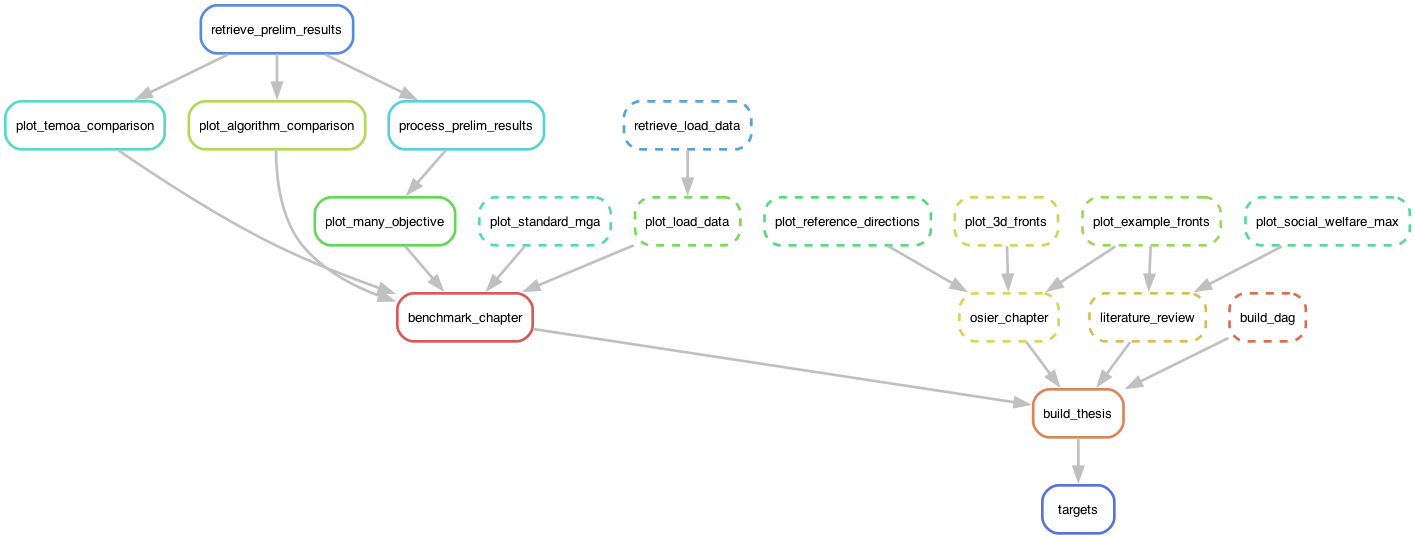
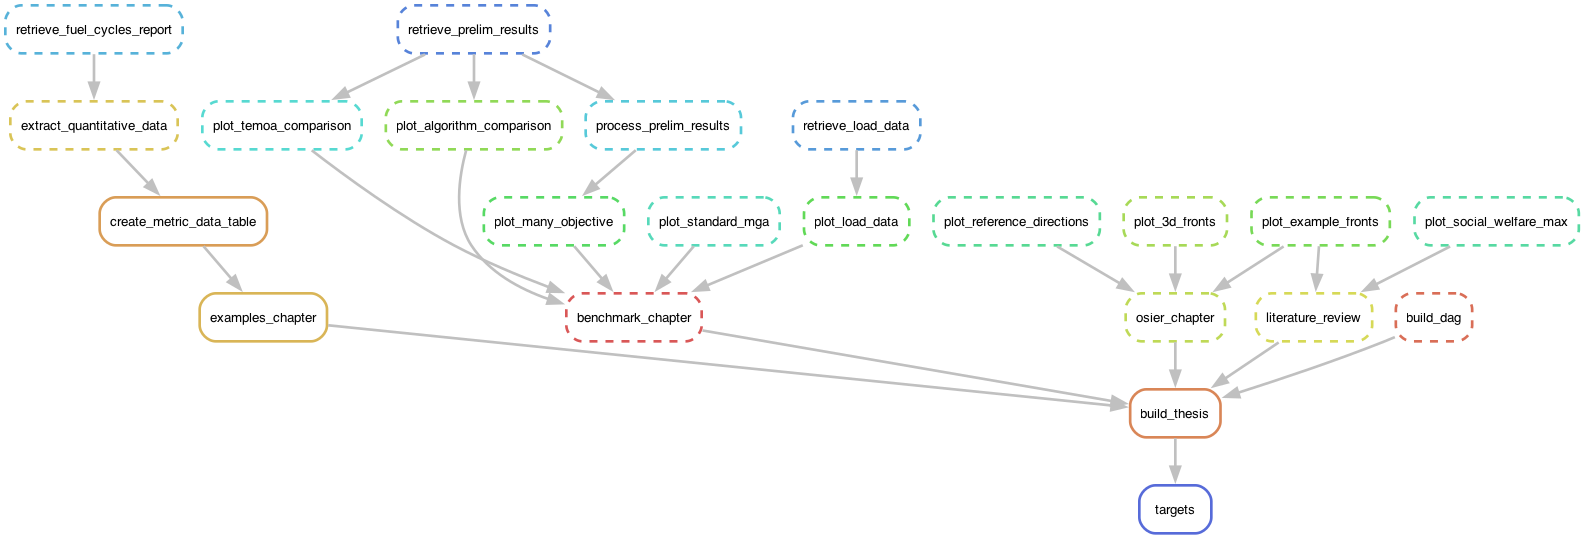
adds table of SET tool metric data

Changed region(s): [[0.0, 0.0, 1.0, 0.8312], [0.7152, 0.8609, 0.7774, 1.0], [0.342, 0.1187, 0.3731, 0.1484]]

diff --git a/docs/tables/metric_data_manual.tex b/docs/tables/metric_data_manual.tex
@@ -1,0 +1,48 @@
+\begin{tabular}{lrrrrrrrrrrr}
+    \toprule
+    EG & Mass \acs{snf}+\acs{hlw} & Activity at 100 years & Activity at 100k years & Mass \acs{du}+\acs{ru}+\acs{rth}& Volume \acs{llw} & Land use & Water use & \acs{co2eq} emissions & Worker dose & Mass natural uranium & Mass natural thorium \\
+    & [t/GWe-yr] & [Ci/GWe-yr] & [Ci/GWe-yr] & [t/GWe-yr] & [m3] & [km2/GWe-yr] & [ML/GWe-yr] & [kt\acs{co2eq}/GWe-yr] & [person-mSv/GWe-yr] & [t/GWe-yr] & [t/GWe-yr] \\
+    \midrule
+    EG01 & 21.92 & 1340000.00 & 1650.00 & 166.67 & 398.84 & 0.17 & 23891.00 & 44.10 & 1.10 & 188.63 & 0.00 \\
+    EG02 & 9.22 & 1430000.00 & 2050.00 & 296.48 & 414.23 & 0.21 & 23994.00 & 54.90 & 1.28 & 305.73 & 0.00 \\
+    EG03 & 147.57 & 1340000.00 & 2460.00 & 0.00 & 373.00 & 0.25 & 23924.00 & 87.10 & 2.41 & 147.87 & 0.00 \\
+    EG04 & 3.99 & 805000.00 & 1640.00 & 0.00 & 278.60 & 0.08 & 23706.00 & 13.50 & 1.22 & 4.00 & 0.00 \\
+    EG05 & 11.41 & 1390000.00 & 7380.00 & 282.41 & 412.58 & 0.21 & 23981.00 & 53.90 & 1.27 & 289.20 & 4.65 \\
+    EG06 & 9.86 & 1770000.00 & 13000.00 & 0.00 & 835.32 & 0.12 & 31308.00 & 59.10 & 2.81 & 0.00 & 9.88 \\
+    EG07 & 31.97 & 1780000.00 & 9480.00 & 0.00 & 342.20 & 0.17 & 37831.00 & 45.70 & 4.54 & 32.03 & 0.00 \\
+    EG08 & 1.62 & 909000.00 & 1690.00 & 0.00 & 826.47 & 0.11 & 33640.00 & 25.40 & 2.93 & 0.00 & 1.62 \\
+    EG09 & 2.24 & 882000.00 & 942.00 & 0.00 & 359.00 & 0.08 & 23709.00 & 17.50 & 1.21 & 2.25 & 0.00 \\
+    EG10 & 10.84 & 1420000.00 & 10800.00 & 0.00 & 2796.69 & 0.10 & 23767.00 & 79.50 & 0.61 & 0.00 & 10.86 \\
+    EG11 & 4.54 & 1020000.00 & 9140.00 & 104.29 & 401.01 & 0.13 & 23810.00 & 31.80 & 1.40 & 106.80 & 2.05 \\
+    EG12 & 7.27 & 1400000.00 & 1420.00 & 104.96 & 1646.12 & 0.14 & 23912.00 & 113.30 & 2.02 & 112.46 & 0.00 \\
+    EG13 & 3.42 & 1330000.00 & 1320.00 & 167.69 & 621.88 & 0.16 & 23897.00 & 52.70 & 1.12 & 171.16 & 0.00 \\
+    EG14 & 8.34 & 1140000.00 & 1240.00 & 0.00 & 618.99 & 0.09 & 23728.00 & 28.50 & 1.18 & 8.38 & 0.00 \\
+    EG15 & 2.11 & 1240000.00 & 1140.00 & 169.81 & 611.53 & 0.15 & 23881.00 & 48.80 & 1.12 & 171.96 & 0.00 \\
+    EG16 & 1.52 & 1260000.00 & 1030.00 & 175.99 & 630.76 & 0.15 & 24495.00 & 50.90 & 1.26 & 177.56 & 0.00 \\
+    EG17 & 3.37 & 1330000.00 & 3090.00 & 170.88 & 624.09 & 0.15 & 23883.00 & 49.90 & 1.10 & 172.41 & 1.88 \\
+    EG18 & 6.95 & 1450000.00 & 6950.00 & 148.60 & 567.72 & 0.15 & 23861.00 & 43.90 & 1.04 & 152.16 & 3.42 \\
+    EG19 & 2.59 & 1140000.00 & 765.00 & 65.54 & 2134.12 & 0.12 & 23897.00 & 127.90 & 2.04 & 68.41 & 0.00 \\
+    EG20 & 2.61 & 1050000.00 & 557.00 & 69.36 & 2343.80 & 0.12 & 23909.00 & 134.90 & 2.06 & 72.26 & 0.00 \\
+    EG21 & 1.46 & 1140000.00 & 800.00 & 157.51 & 678.04 & 0.14 & 23874.00 & 51.10 & 1.05 & 159.02 & 0.00 \\
+    EG22 & 1.39 & 994000.00 & 581.00 & 175.42 & 691.19 & 0.15 & 23891.00 & 53.30 & 1.08 & 176.86 & 0.00 \\
+    EG23 & 1.31 & 1030000.00 & 728.00 & 0.00 & 549.49 & 0.08 & 23717.00 & 24.10 & 1.21 & 1.34 & 0.00 \\
+    EG24 & 1.34 & 1040000.00 & 606.00 & 0.00 & 561.42 & 0.08 & 23717.00 & 24.10 & 1.21 & 1.37 & 0.00 \\
+    EG25 & 1.51 & 1300000.00 & 864.00 & 112.81 & 853.46 & 0.13 & 23839.00 & 51.50 & 0.95 & 113.54 & 0.85 \\
+    EG26 & 1.25 & 1300000.00 & 1370.00 & 0.00 & 2830.60 & 0.09 & 23762.00 & 77.30 & 0.55 & 0.00 & 1.25 \\
+    EG27 & 2.25 & 1300000.00 & 3620.00 & 184.74 & 1160.73 & 0.16 & 23909.00 & 67.30 & 1.54 & 186.62 & 0.45 \\
+    EG28 & 1.58 & 1180000.00 & 3010.00 & 0.00 & 1168.72 & 0.09 & 23748.00 & 50.10 & 1.24 & 0.00 & 1.68 \\
+    EG29 & 1.45 & 1130000.00 & 917.00 & 0.00 & 662.22 & 0.08 & 23725.00 & 30.50 & 1.02 & 1.49 & 0.00 \\
+    EG30 & 1.30 & 954000.00 & 571.00 & 0.00 & 602.99 & 0.08 & 23719.00 & 26.10 & 1.14 & 1.33 & 0.00 \\
+    EG31 & 1.37 & 1180000.00 & 697.00 & 136.55 & 567.85 & 0.13 & 23847.00 & 42.70 & 1.13 & 137.96 & 0.00 \\
+    EG32 & 1.32 & 1080000.00 & 519.00 & 127.15 & 579.27 & 0.13 & 23838.00 & 41.60 & 1.13 & 128.50 & 0.00 \\
+    EG33 & 1.59 & 1220000.00 & 879.00 & 0.00 & 753.51 & 0.10 & 27521.00 & 39.10 & 2.84 & 1.64 & 0.00 \\
+    EG34 & 1.50 & 1070000.00 & 669.00 & 0.00 & 696.42 & 0.09 & 27104.00 & 38.20 & 2.70 & 1.55 & 0.00 \\
+    EG35 & 1.42 & 1200000.00 & 741.00 & 163.92 & 621.45 & 0.15 & 24957.00 & 49.50 & 1.43 & 165.37 & 0.00 \\
+    EG36 & 1.39 & 1020000.00 & 535.00 & 149.10 & 735.16 & 0.14 & 23887.00 & 49.70 & 1.14 & 150.54 & 0.00 \\
+    EG37 & 1.33 & 1120000.00 & 762.00 & 23.42 & 624.52 & 0.09 & 23717.00 & 31.90 & 1.01 & 24.36 & 0.43 \\
+    EG38 & 1.79 & 1270000.00 & 3170.00 & 0.00 & 1518.73 & 0.09 & 23770.00 & 67.00 & 1.18 & 0.00 & 1.93 \\
+    EG39 & 1.40 & 1300000.00 & 763.00 & 114.17 & 677.49 & 0.13 & 24623.00 & 41.70 & 1.14 & 114.85 & 0.75 \\
+    EG40 & 1.47 & 1490000.00 & 1280.00 & 0.00 & 592.98 & 0.09 & 27306.00 & 29.40 & 1.49 & 0.00 & 1.51 \\
+    \bottomrule
+    \end{tabular}
+    

diff --git a/docs/tables/metric_data.tex b/docs/tables/metric_data.tex
@@ -1,0 +1,47 @@
+\begin{tabular}{lrrrrrrrrrrr}
+\toprule
+EG & Mass \acs{snf}+\acs{hlw} & Activity at 100 years & Activity at 100k years & Mass \acs{du}+\acs{ru}+\acs{rth}& Volume \acs{llw} & Land use & Water use & \acs{co2eq} emissions & Worker dose & Mass natural uranium & Mass natural thorium \\
+& [t/GWe-yr] & [Ci/GWe-yr] & [Ci/GWe-yr] & [t/GWe-yr] & [m3] & [km2/GWe-yr] & [ML/GWe-yr] & [kt\acs{co2eq}/GWe-yr] & [person-mSv/GWe-yr] & [t/GWe-yr] & [t/GWe-yr] \\
+\midrule
+EG01 & 21.92 & 1340000.00 & 1650.00 & 166.67 & 398.84 & 0.17 & 23891.00 & 44.10 & 1.10 & 188.63 & 0.00 \\
+EG02 & 9.22 & 1430000.00 & 2050.00 & 296.48 & 414.23 & 0.21 & 23994.00 & 54.90 & 1.28 & 305.73 & 0.00 \\
+EG03 & 147.57 & 1340000.00 & 2460.00 & 0.00 & 373.00 & 0.25 & 23924.00 & 87.10 & 2.41 & 147.87 & 0.00 \\
+EG04 & 3.99 & 805000.00 & 1640.00 & 0.00 & 278.60 & 0.08 & 23706.00 & 13.50 & 1.22 & 4.00 & 0.00 \\
+EG05 & 11.41 & 1390000.00 & 7380.00 & 282.41 & 412.58 & 0.21 & 23981.00 & 53.90 & 1.27 & 289.20 & 4.65 \\
+EG06 & 9.86 & 1770000.00 & 13000.00 & 0.00 & 835.32 & 0.12 & 31308.00 & 59.10 & 2.81 & 0.00 & 9.88 \\
+EG07 & 31.97 & 1780000.00 & 9480.00 & 0.00 & 342.20 & 0.17 & 37831.00 & 45.70 & 4.54 & 32.03 & 0.00 \\
+EG08 & 1.62 & 909000.00 & 1690.00 & 0.00 & 826.47 & 0.11 & 33640.00 & 25.40 & 2.93 & 0.00 & 1.62 \\
+EG09 & 2.24 & 882000.00 & 942.00 & 0.00 & 359.00 & 0.08 & 23709.00 & 17.50 & 1.21 & 2.25 & 0.00 \\
+EG10 & 10.84 & 1420000.00 & 10800.00 & 0.00 & 2796.69 & 0.10 & 23767.00 & 79.50 & 0.61 & 0.00 & 10.86 \\
+EG11 & 4.54 & 1020000.00 & 9140.00 & 104.29 & 401.01 & 0.13 & 23810.00 & 31.80 & 1.40 & 106.80 & 2.05 \\
+EG12 & 7.27 & 1400000.00 & 1420.00 & 104.96 & 1646.12 & 0.14 & 23912.00 & 113.30 & 2.02 & 112.46 & 0.00 \\
+EG13 & 3.42 & 1330000.00 & 1320.00 & 167.69 & 621.88 & 0.16 & 23897.00 & 52.70 & 1.12 & 171.16 & 0.00 \\
+EG14 & 8.34 & 1140000.00 & 1240.00 & 0.00 & 618.99 & 0.09 & 23728.00 & 28.50 & 1.18 & 8.38 & 0.00 \\
+EG15 & 2.11 & 1240000.00 & 1140.00 & 169.81 & 611.53 & 0.15 & 23881.00 & 48.80 & 1.12 & 171.96 & 0.00 \\
+EG16 & 1.52 & 1260000.00 & 1030.00 & 175.99 & 630.76 & 0.15 & 24495.00 & 50.90 & 1.26 & 177.56 & 0.00 \\
+EG17 & 3.37 & 1330000.00 & 3090.00 & 170.88 & 624.09 & 0.15 & 23883.00 & 49.90 & 1.10 & 172.41 & 1.88 \\
+EG18 & 6.95 & 1450000.00 & 6950.00 & 148.60 & 567.72 & 0.15 & 23861.00 & 43.90 & 1.04 & 152.16 & 3.42 \\
+EG19 & 2.59 & 1140000.00 & 765.00 & 65.54 & 2134.12 & 0.12 & 23897.00 & 127.90 & 2.04 & 68.41 & 0.00 \\
+EG20 & 2.61 & 1050000.00 & 557.00 & 69.36 & 2343.80 & 0.12 & 23909.00 & 134.90 & 2.06 & 72.26 & 0.00 \\
+EG21 & 1.46 & 1140000.00 & 800.00 & 157.51 & 678.04 & 0.14 & 23874.00 & 51.10 & 1.05 & 159.02 & 0.00 \\
+EG22 & 1.39 & 994000.00 & 581.00 & 175.42 & 691.19 & 0.15 & 23891.00 & 53.30 & 1.08 & 176.86 & 0.00 \\
+EG23 & 1.31 & 1030000.00 & 728.00 & 0.00 & 549.49 & 0.08 & 23717.00 & 24.10 & 1.21 & 1.34 & 0.00 \\
+EG24 & 1.34 & 1040000.00 & 606.00 & 0.00 & 561.42 & 0.08 & 23717.00 & 24.10 & 1.21 & 1.37 & 0.00 \\
+EG25 & 1.51 & 1300000.00 & 864.00 & 112.81 & 853.46 & 0.13 & 23839.00 & 51.50 & 0.95 & 113.54 & 0.85 \\
+EG26 & 1.25 & 1300000.00 & 1370.00 & 0.00 & 2830.60 & 0.09 & 23762.00 & 77.30 & 0.55 & 0.00 & 1.25 \\
+EG27 & 2.25 & 1300000.00 & 3620.00 & 184.74 & 1160.73 & 0.16 & 23909.00 & 67.30 & 1.54 & 186.62 & 0.45 \\
+EG28 & 1.58 & 1180000.00 & 3010.00 & 0.00 & 1168.72 & 0.09 & 23748.00 & 50.10 & 1.24 & 0.00 & 1.68 \\
+EG29 & 1.45 & 1130000.00 & 917.00 & 0.00 & 662.22 & 0.08 & 23725.00 & 30.50 & 1.02 & 1.49 & 0.00 \\
+EG30 & 1.30 & 954000.00 & 571.00 & 0.00 & 602.99 & 0.08 & 23719.00 & 26.10 & 1.14 & 1.33 & 0.00 \\
+EG31 & 1.37 & 1180000.00 & 697.00 & 136.55 & 567.85 & 0.13 & 23847.00 & 42.70 & 1.13 & 137.96 & 0.00 \\
+EG32 & 1.32 & 1080000.00 & 519.00 & 127.15 & 579.27 & 0.13 & 23838.00 & 41.60 & 1.13 & 128.50 & 0.00 \\
+EG33 & 1.59 & 1220000.00 & 879.00 & 0.00 & 753.51 & 0.10 & 27521.00 & 39.10 & 2.84 & 1.64 & 0.00 \\
+EG34 & 1.50 & 1070000.00 & 669.00 & 0.00 & 696.42 & 0.09 & 27104.00 & 38.20 & 2.70 & 1.55 & 0.00 \\
+EG35 & 1.42 & 1200000.00 & 741.00 & 163.92 & 621.45 & 0.15 & 24957.00 & 49.50 & 1.43 & 165.37 & 0.00 \\
+EG36 & 1.39 & 1020000.00 & 535.00 & 149.10 & 735.16 & 0.14 & 23887.00 & 49.70 & 1.14 & 150.54 & 0.00 \\
+EG37 & 1.33 & 1120000.00 & 762.00 & 23.42 & 624.52 & 0.09 & 23717.00 & 31.90 & 1.01 & 24.36 & 0.43 \\
+EG38 & 1.79 & 1270000.00 & 3170.00 & 0.00 & 1518.73 & 0.09 & 23770.00 & 67.00 & 1.18 & 0.00 & 1.93 \\
+EG39 & 1.40 & 1300000.00 & 763.00 & 114.17 & 677.49 & 0.13 & 24623.00 & 41.70 & 1.14 & 114.85 & 0.75 \\
+EG40 & 1.47 & 1490000.00 & 1280.00 & 0.00 & 592.98 & 0.09 & 27306.00 & 29.40 & 1.49 & 0.00 & 1.51 \\
+\bottomrule
+\end{tabular}

diff --git a/docs/5-examples/50-intro.tex b/docs/5-examples/50-intro.tex
@@ -1,0 +1,87 @@
+
+\textcolor{red}{This chapter is entirely new to this thesis!}
+
+\section{Example 1: Updating the \ac{set}}
+
+\textcolor{red}{Points to hit:}
+\begin{enumerate}
+    \item Addressing the climate crisis requires new infrastructure and new energy sources.
+    \item Progress has been stifled on many fronts, not the least of which has been public opposition to energy projects. Including wind, solar, and nuclear.
+    \item Some of this opposition results from dissatisfaction with process.
+    \item Opposition can be pre-empted with sincere and proactive community engagement.
+    \item In the case of nuclear energy, some of these efforts are already underway with concepts such as consent-based siting entering the nuclear zeitgeist.
+    \item ???
+    \item Introduce the \ac{set} tool
+    \item  Introduce \ac{osier} as a tool for multi-objective optimization.
+\end{enumerate}
+
+\textcolor{red}{Benefits of using \ac{osier}}:
+\begin{enumerate}
+    \item Python interface allows direct coupling with external models and data sources for greater flexibility.
+    \item Enables, but does not require, a weighting scheme for decision making.
+    \item Allows users to analyze tradeoffs among competing objectives.
+    \item Allows users to compare lifecycle impacts with non-nuclear technologies.
+    \item Can flexibly add additional assessment criteria (e.g., Energy return on investment). 
+\end{enumerate}
+
+\textcolor{red}{Results}
+\begin{enumerate}
+    \item Does using \ac{osier} support the previous conclusions about the most promising evaluation groups?
+\end{enumerate}
+
+\subsection{Overview of the Nuclear Fuel Cycle}
+
+\subsection{What is the \ac{set}?}
+
+The \ac{set} is an Excel-based application containing metric data from the Nuclear Fuel Cycle Evaluation and Screening Study
+\cite{wigeland_nuclear_2014}. The website for the \ac{set} suggests the following use cases \cite{pincock_screening_2014}:
+\begin{enumerate}
+    \item A user can repeat the evaluation and screening process used in the Study that identified the promising options for R\&D, with either the entire set of options (\acp{eg}) or a subset of the options.
+    \item A user can explore the effects of varying the relative importance of the criteria on the identification of fuel cycles that might be considered promising for R\&D.
+    \item A user can perform an evaluation and screening of fuel cycles specified by the user by developing the metric data according to the information in the final report and adding the data to the SET tool.
+\end{enumerate}
+
+\subsection{What metrics are available?}
+
+The \ac{set} evaluates fuel cycles on a set of nine aggregated criteria \cite{wigeland_nuclear_2014}:
+\begin{enumerate}
+    \item Nuclear waste management
+    \item Proliferation risk
+    \item Nuclear Material security risk
+    \item Safety
+    \item Environmental impacts
+    \item Resource Utilization
+    \item Development and deployment risk
+    \item Institutional issues
+    \item Economics
+\end{enumerate}
+
+Most of these criteria include several sub-criteria. For example, the environmental impacts criteria 
+includes water use and land use as two sub-criteria \cite{wigeland_nuclear_2014-1}.
+
+\subsection{Data for the simulation}
+
+Table \ref{tab:metric-data} describes the data for the simulation.
+
+\begin{sidewaystable}[ht!]
+    \centering
+    \caption{Data for the simulation \cite{wigeland_nuclear_2014-1}.}
+    \label{tab:metric-data}
+    \resizebox*{\textwidth}{!}{\input{tables/metric_data_manual.tex}}
+\end{sidewaystable}
+
+\subsection{Results}
+
+\subsection{Discussion}
+
+% \section{Example 2: Powering a Data Center}
+
+% \subsection{Why data centers?}
+
+% \subsection{What technology options exist?}
+
+% \subsection{Data for the simulation}
+
+% \subsection{Results}
+
+% \subsection{Discussion}

diff --git a/docs/00-outline.tex b/docs/00-outline.tex
@@ -26,85 +26,7 @@
 
 \chapter{Examples with \acs{osier}}
 \label{chapter:examples}
-
-\textcolor{red}{This chapter is entirely new to this thesis!}
-
-\section{Example 1: Updating the \ac{set}}
-
-\textcolor{red}{Points to hit:}
-\begin{enumerate}
-    \item Addressing the climate crisis requires new infrastructure and new energy sources.
-    \item Progress has been stifled on many fronts, not the least of which has been public opposition to energy projects. Including wind, solar, and nuclear.
-    \item Some of this opposition results from dissatisfaction with process.
-    \item Opposition can be pre-empted with sincere and proactive community engagement.
-    \item In the case of nuclear energy, some of these efforts are already underway with concepts such as consent-based siting entering the nuclear zeitgeist.
-    \item ???
-    \item Introduce the \ac{set} tool
-    \item  Introduce \ac{osier} as a tool for multi-objective optimization.
-\end{enumerate}
-
-\textcolor{red}{Benefits of using \ac{osier}}:
-\begin{enumerate}
-    \item Python interface allows direct coupling with external models and data sources for greater flexibility.
-    \item Enables, but does not require, a weighting scheme for decision making.
-    \item Allows users to analyze tradeoffs among competing objectives.
-    \item Allows users to compare lifecycle impacts with non-nuclear technologies.
-    \item Can flexibly add additional assessment criteria (e.g., Energy return on investment). 
-\end{enumerate}
-
-\textcolor{red}{Results}
-\begin{enumerate}
-    \item Does using \ac{osier} support the previous conclusions about the most promising evaluation groups?
-\end{enumerate}
-
-\subsection{Overview of the Nuclear Fuel Cycle}
-
-\subsection{What is the \ac{set}?}
-
-The \ac{set} is an Excel-based application containing metric data from the Nuclear Fuel Cycle Evaluation and Screening Study
-\cite{wigeland_nuclear_2014}. The website for the \ac{set} suggests the following use cases \cite{pincock_screening_2014}:
-\begin{enumerate}
-    \item A user can repeat the evaluation and screening process used in the Study that identified the promising options for R\&D, with either the entire set of options (\acp{eg}) or a subset of the options.
-    \item A user can explore the effects of varying the relative importance of the criteria on the identification of fuel cycles that might be considered promising for R\&D.
-    \item A user can perform an evaluation and screening of fuel cycles specified by the user by developing the metric data according to the information in the final report and adding the data to the SET tool.
-\end{enumerate}
-
-\subsection{What metrics are available?}
-
-The \ac{set} evaluates fuel cycles on a set of nine aggregated criteria \cite{wigeland_nuclear_2014}:
-\begin{enumerate}
-    \item Nuclear waste management
-    \item Proliferation risk
-    \item Nuclear Material security risk
-    \item Safety
-    \item Environmental impacts
-    \item Resource Utilization
-    \item Development and deployment risk
-    \item Institutional issues
-    \item Economics
-\end{enumerate}
-
-Most of these criteria include several sub-criteria. For example, the environmental impacts criteria 
-includes water use and land use as two sub-criteria \cite{wigeland_nuclear_2014-1}.
-
-\subsection{Data for the simulation}
-
-\subsection{Results}
-
-\subsection{Discussion}
-
-% \section{Example 2: Powering a Data Center}
-
-% \subsection{Why data centers?}
-
-% \subsection{What technology options exist?}
-
-% \subsection{Data for the simulation}
-
-% \subsection{Results}
-
-% \subsection{Discussion}
-
+\input{5-examples/50-intro.tex}
 
 \chapter{Using modeling to enhance just outcomes}
 \label{chapter:communities}

diff --git a/analysis/scripts/05-examples-scripts/create_metric_table.py b/analysis/scripts/05-examples-scripts/create_metric_table.py
@@ -1,0 +1,36 @@
+from osier import ThermalTechnology
+from dill import load, dump
+import pandas as pd
+import matplotlib.pyplot as plt
+import numpy as np
+from glob import glob
+
+if __name__ == "__main__":
+    files = snakemake.input
+
+    frames = []
+    for f in files:
+        if "demand_data" in f:
+            continue
+        elif "4_obj" in f:
+            continue
+        else: 
+            metric_name = f.split('/')[-1].replace('.csv', '')
+            print(metric_name)
+            df = pd.read_csv(f, index_col=0)
+            df.index.name = 'EG'
+            df = df.iloc[:,:1]
+            # get units from column name
+            units = df.columns[0].split(" ")[-1].strip('()')
+            print(units)
+            df.columns = [f"{metric_name.replace("_", " ")} \n[{units}]"]
+            frames.append(df)
+
+
+    full_df = pd.concat(frames, axis=1)
+
+    full_df.style.format(precision=2).to_latex(snakemake.output.metric_table, hrules=True)
+
+    # full_df.columns = ["_".join(c.split(" ")[:-1]) for c in list(full_df.columns)]
+    full_df.to_csv(snakemake.output.metric_data)
+

diff --git a/docs/acros.tex b/docs/acros.tex
@@ -69,3 +69,9 @@
 \acro{unece}[UNECE]{United Nations Economic Commission for Europe}
 \acro{eg}[EG]{evaluation group}
 \acrodefplural{eg}[EGs]{evaluation groups}
+\acro{llw}[LLW]{low-level waste}
+\acro{hlw}[HLW]{high-level waste}
+\acro{du}[DU]{depleted uranium}
+\acro{ru}[RU]{recovered uranium}
+\acro{rth}[RTh]{recovered thorium}
+
